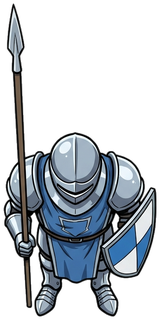
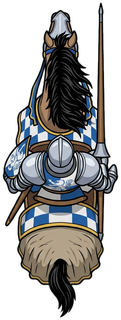
feat: Dragon Tide v0.97.0 — 動く敵8種を真俯瞰で描き直す (Shooter指示)
v0.96 は forward:"down" で描画時に180度回す暫定対応だった。
絵そのものが「正面を向いた立ち絵」だったので、生成から作り直した。
forward は全部 "up"（他の敵と同じ規約）に戻してある。

対象: knights / clubmen / mammoth_lord / bullchariot /
      gilded_colossus / batteringram / shockman / teslagiant

生成プロンプトの穴:
tools/gen_enemy_sprite.sh には元から "Top-down view seen from directly above"
と書いてあったが、それでも正面の立ち絵が返ってくる。建物スプライトで踏んだのと
同じ穴で、「俯瞰で」と言うだけでは足りず見えてはいけないものを名指しする必要がある。
「顔・目・胸・腹・正面の面を見せるな」「見えるのは頭頂・肩・背中・屋根だけ」
「立ち絵でも正面図でもない」を足したら一発で真俯瞰になった。

前後の指定も明示が要る:
8体中2体（破城槌・衝撃兵）は俯瞰にはなったが前後が逆だった。
その敵の一番前にある部位を名指しして「それを画像の上に置け」と書いたら直った。

手順: 生成 → 長辺320px以下へ縮小（旧絵も160〜320pxだった）→
アルファ重心で px/py を取り直し drawScale も再計算 → メタ差し替え →
実機で8体を横一列に並べて全部右へ進ませ、絵の前が右を向くことを目視確認。
gilded_colossus の hover: true はバッチ出力に含まれないので手で戻した。

落とし穴: メタを正規表現の後方参照で置換したらキー名が消えて
ironclad: {...},{...} のように違う行に連結された（構文エラーで検知）。
行単位の素直な置換に切り替えて解決。

diff --git a/prototypes/dragon-tide/index.html b/prototypes/dragon-tide/index.html
@@ -631,7 +631,7 @@
 // -----------------------------------------------------------------
 // バージョン定数（ここだけ更新すれば画面に反映される）
 // -----------------------------------------------------------------
-const GAME_VERSION = "v0.96.0";
+const GAME_VERSION = "v0.97.0";
 document.getElementById("hud-version").textContent = GAME_VERSION;
 
 // -----------------------------------------------------------------
@@ -18583,11 +18583,11 @@ let groundTileImage = null;
 // 画像内の前方方向。forward: "up"=画像上が前 / "down"=画像下が前 / "none"=回転させない。
 // drawScale は def.radius（当たり判定半径）に掛けて描画幅にする係数。
 const ENEMY_SPRITE_META = {
-  // v0.96: 下記8種は生成された絵の前後が逆だった（Shooter判定）ので
-  // forward を "up" → "down" にして描画時に180度回している（画像は触っていない）:
+  // v0.97: 下記8種は「正面を向いた立ち絵」だったので**真俯瞰で描き直した**。
+  // v0.96 では forward:"down" にして描画時に180度回す埋め合わせをしていたが、
+  // 絵から直したので全部 forward:"up"（他の敵と同じ規約）に戻してある:
   //   knights / clubmen / mammoth_lord / bullchariot /
   //   gilded_colossus / batteringram / shockman / teslagiant
-  // px/py はアルファ重心なので、180度回しても支点はそのままでよい。
   // v0.47: 敵スプライトを全部作り直した（実機判定 2026-08-23「敵もドラゴンも一新」）。
   // px/py は tools/sprite_clean.py が出すアルファ質量重心（画像に対する割合）。
   // drawScale は「縦長なら描画高さ＝半径×3.6／横長なら描画幅＝半径×2.8」で自動算出。
@@ -18601,7 +18601,7 @@ const ENEMY_SPRITE_META = {
   flamewagon:     { px: 0.497, py: 0.593, forward: "up", drawScale: 2.04 },
   healer:         { px: 0.498, py: 0.499, forward: "none", drawScale: 3.58 },
   ironclad:       { px: 0.497, py: 0.540, forward: "up", drawScale: 1.34 },
-  knights:        { px: 0.468, py: 0.651, forward: "down", drawScale: 1.8 },
+  knights:        { px: 0.506, py: 0.523, forward: "up", drawScale: 1.36 },
   lurker:         { px: 0.499, py: 0.467, forward: "up", drawScale: 3.09 },
   mammoth:        { px: 0.498, py: 0.579, forward: "up", drawScale: 2.08 },
   miasma:         { px: 0.498, py: 0.548, forward: "none", drawScale: 3.15 },
@@ -18609,7 +18609,7 @@ const ENEMY_SPRITE_META = {
   // v0.47.1: コード側が描く「弾く扇」（drawMovers）と絵が重なって盾が読めなかったので、
   // エフェクトはそのままに**絵を一回り小さく**した（3.45 → 2.4）。
   shieldman:      { px: 0.488, py: 0.501, forward: "up", drawScale: 2.4 },
-  shockman:       { px: 0.498, py: 0.516, forward: "down", drawScale: 3.26 },
+  shockman:       { px: 0.498, py: 0.454, forward: "up", drawScale: 2.28 },
   splitter:       { px: 0.494, py: 0.520, forward: "none", drawScale: 3.49, hover: true },
   summoner:       { px: 0.497, py: 0.518, forward: "none", drawScale: 3.34, hover: true },
   teslawagon:     { px: 0.497, py: 0.514, forward: "up", drawScale: 2.48 },
@@ -18620,17 +18620,17 @@ const ENEMY_SPRITE_META = {
   // px/py は tools/sprite_clean.py が出したアルファ質量重心。
   // drawScale は既存と同じ規則（縦長: 3.6×w/h ／ 横長: 2.8）を tools/gen_sprite_batch.sh が算出。
   // hover は「浮いている・回らない」もの（本編で影＋上下動になる）。
-  clubmen:        { px: 0.499, py: 0.547, forward: "down", drawScale: 2.26 },
-  mammoth_lord:   { px: 0.496, py: 0.502, forward: "down", drawScale: 2.48 },
-  bullchariot:    { px: 0.465, py: 0.437, forward: "down", drawScale: 2.90 },
-  gilded_colossus:{ px: 0.540, py: 0.505, forward: "down", drawScale: 2.80, hover: true },
+  clubmen:        { px: 0.501, py: 0.555, forward: "up", drawScale: 2.80 },
+  mammoth_lord:   { px: 0.501, py: 0.549, forward: "up", drawScale: 1.76 },
+  bullchariot:    { px: 0.498, py: 0.576, forward: "up", drawScale: 2.07 },
+  gilded_colossus:{ px: 0.498, py: 0.480, forward: "up", drawScale: 2.80, hover: true },
   siegetower:     { px: 0.499, py: 0.559, forward: "none", drawScale: 2.04 },
-  batteringram:   { px: 0.499, py: 0.502, forward: "down", drawScale: 2.32 },
+  batteringram:   { px: 0.497, py: 0.545, forward: "up", drawScale: 1.91 },
   grenadiers:     { px: 0.429, py: 0.508, forward: "up", drawScale: 3.16 },
   grapeshot:      { px: 0.499, py: 0.557, forward: "up", drawScale: 2.09 },
   armortrain:     { px: 0.606, py: 0.506, forward: "up", drawScale: 1.54 },
   steamhammer:    { px: 0.484, py: 0.547, forward: "up", drawScale: 2.64 },
-  teslagiant:     { px: 0.498, py: 0.472, forward: "down", drawScale: 2.62 },
+  teslagiant:     { px: 0.499, py: 0.548, forward: "up", drawScale: 2.80 },
   repulsor:       { px: 0.504, py: 0.440, forward: "up", drawScale: 2.27 },
   bomberwing:     { px: 0.499, py: 0.421, forward: "none", drawScale: 2.80, hover: true },
   concussion:     { px: 0.498, py: 0.514, forward: "up", drawScale: 2.36 },

diff --git a/docs/gdd/dragon-tide-next-steps.md b/docs/gdd/dragon-tide-next-steps.md
@@ -2176,8 +2176,54 @@ knights / clubmen / mammoth_lord / bullchariot / gilded_colossus / batteringram 
 牡牛戦車の角と破城槌の衝角も同じく画像の下側にある。
 
 **つまりこれは向きの設定ミスというより、[[dragon-tide-is-top-down]] に反する絵が8枚混じっていた**という話。
-`forward:"down"` は暫定の埋め合わせで、**本筋は8枚を真俯瞰で描き直すこと**（未着手）。
-描き直したら `forward` を `"up"` に戻す。
+**v0.97 で絵から描き直した（下記）ので、`forward` は全部 `"up"` に戻してある。**
+
+### 2-1aj. 8種を真俯瞰で描き直す（v0.97）
+
+Shooter 指示「今のうちに絵から直しておきますか」。v0.96 の暫定対応を本筋に置き換えた。
+
+#### 生成プロンプトの穴
+
+`tools/gen_enemy_sprite.sh` には元から `Top-down view seen from directly above` と書いてあった。
+**それでも正面の立ち絵が返ってくる。** 建物スプライト（§2-1t）で踏んだのと同じ穴。
+「俯瞰で」と言うだけでは足りず、**見えてはいけないものを名指しする**必要がある。
+
+```
+STRICT OVERHEAD MAP VIEW. The camera is a bird directly above, looking straight DOWN.
+You see ONLY the TOP surfaces: the top of the head, the shoulders, the back, the roof.
+You must NOT see the face, the eyes, the chest, the belly, or any front-facing surface.
+No perspective, no side faces, nothing seen in elevation.
+This is NOT a character portrait and NOT a front view.
+```
+
+この文言で1体試したところ一発で真俯瞰（馬の頭とたてがみを上から見た騎士）になった。
+
+#### 前後の指定も明示が要る
+
+8体中2体（破城槌・衝撃兵）は俯瞰にはなったが**前後が逆**（衝角と頭が画像の下）だった。
+`The forward direction points toward the TOP` だけでは足りず、
+**その敵の一番前にある部位を名指しして「それを画像の上に置け」**と書いたら直った。
+
+```
+The iron ram head must be at the TOP of the image and the rear of the cart at the BOTTOM.
+Its low horned head is at the very TOP of the image, the spined tail is at the BOTTOM.
+```
+
+#### 手順
+
+1. `tools/gen_sprite_batch.sh` で生成（`name|aspect|forward|desc` の4体ずつ）
+2. 生成直後は 440〜960px と大きいので、**長辺320px以下へ PIL で縮小**（旧絵も 160〜320px だった）
+3. 縮小後のアルファ重心で px/py を取り直し、drawScale も再計算
+4. `ENEMY_SPRITE_META` を書き換え、`forward` を全部 `"up"` へ
+5. 実機で 8体を横一列に並べて全部右へ進ませ、絵の前が右を向くことを目で確認
+
+`gilded_colossus` の `hover: true` はバッチ出力に含まれないので手で戻した。
+
+#### 落とし穴
+
+メタを正規表現の**後方参照**（`\1`）で置き換えたら、キー名が消えて
+`ironclad: {...},{...}` のように**違う行に連結**された（構文エラーで検知）。
+行単位の素直な置換に切り替えて解決。**メタの一括書き換えに後方参照を使わないこと。**
 
 ---
 
